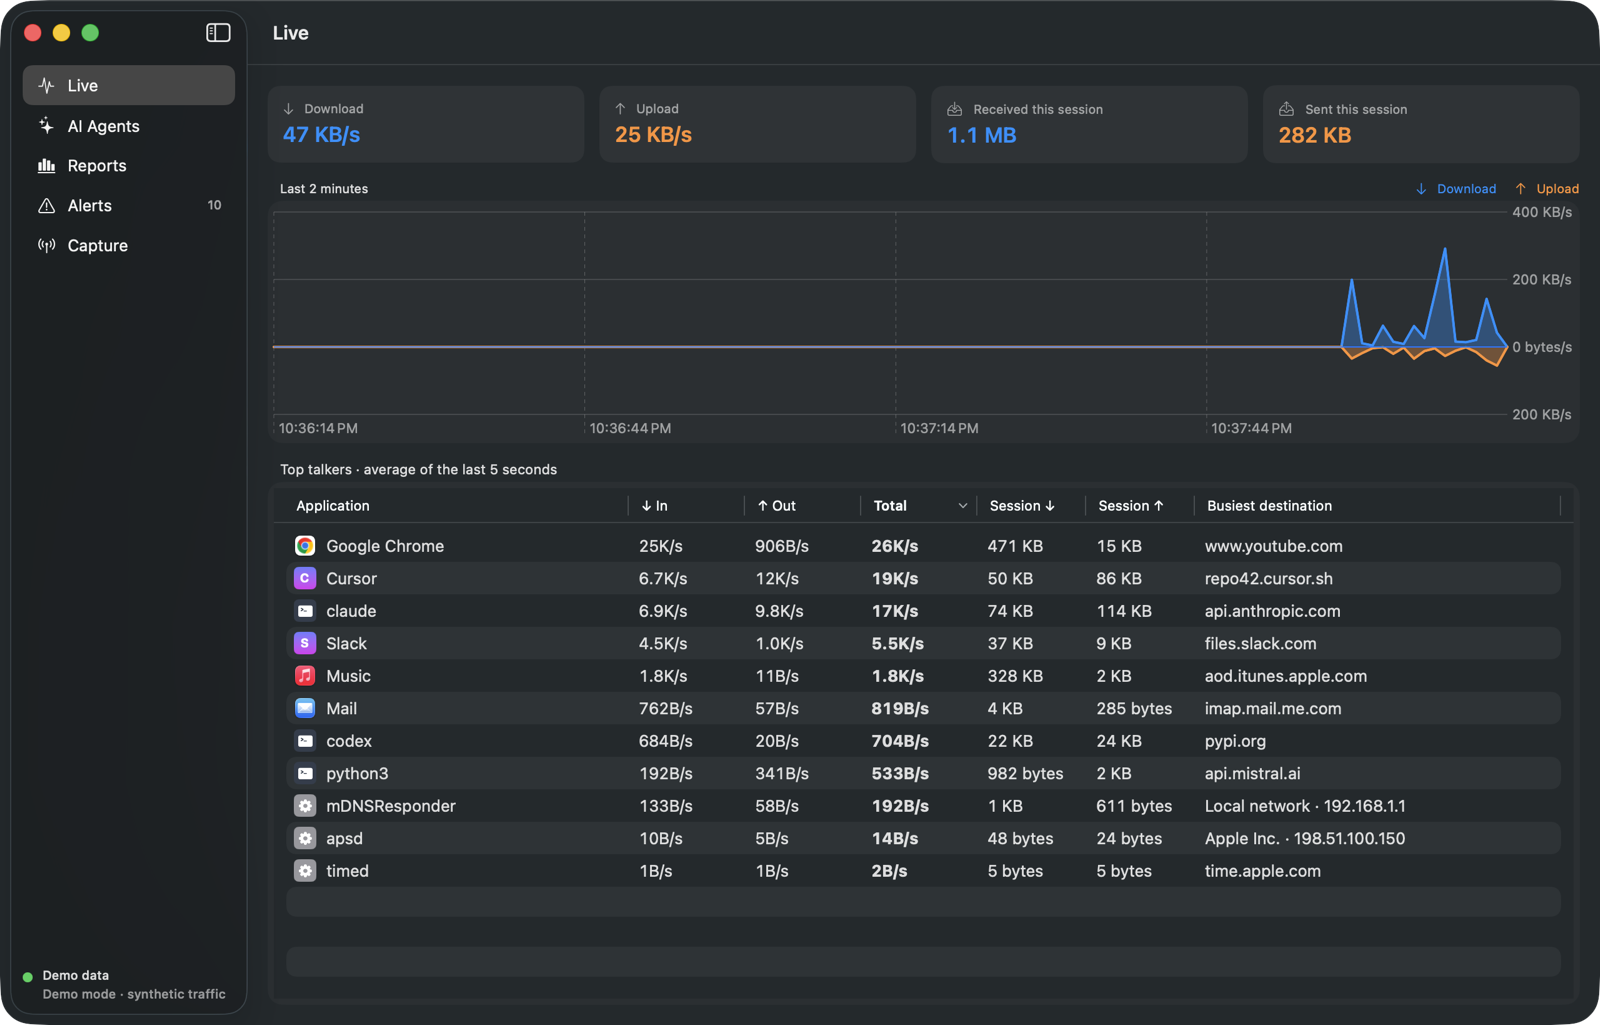
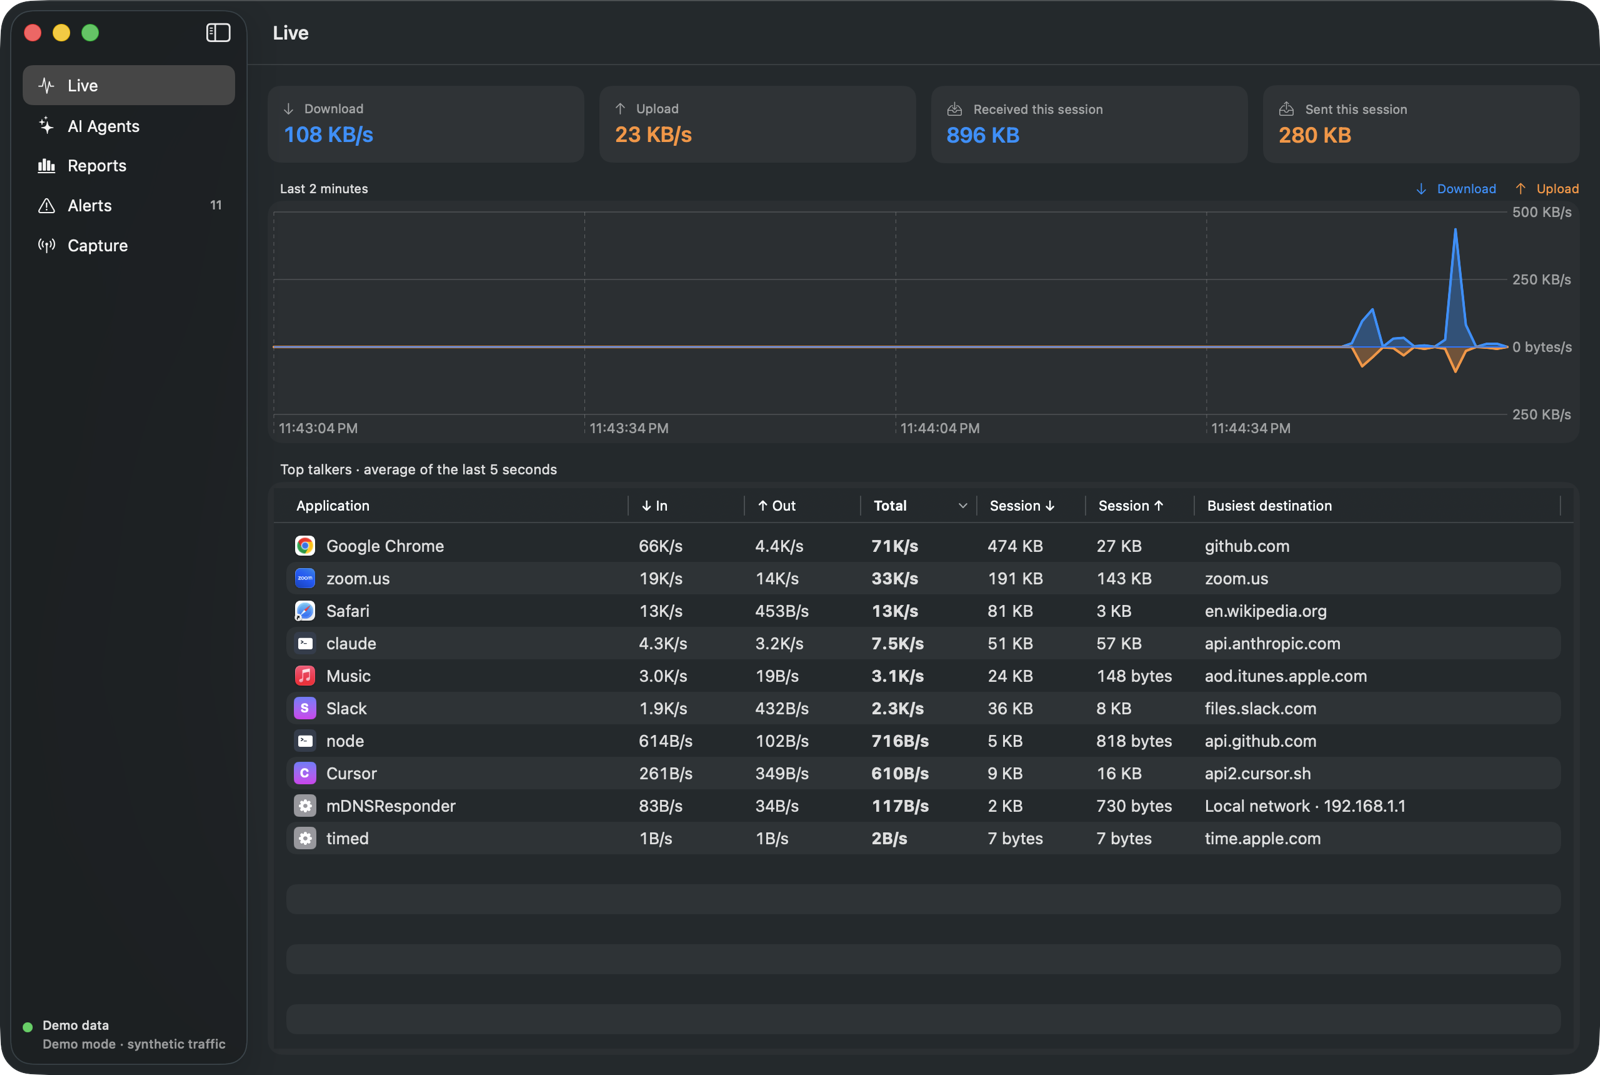
Demo data and screenshots: tools, MCP servers and an allowlist
Demo mode now includes git, curl and a github MCP server working for
Claude Code, a fetch MCP server under Cursor, a Claude Code allowlist
(GitHub + npm) and a violation, and the screenshots are retaken from it.

diff --git a/Flowlight/App/DemoData.swift b/Flowlight/App/DemoData.swift
@@ -34,6 +34,14 @@ enum DemoData {
         var path: String
         var weight: Double      // how busy during work hours
         var flows: [Flow]
+        /// Set for tools and MCP servers an agent started: (agent bundle ID, agent name, MCP server).
+        var parent: (id: String, name: String, mcp: String?)? = nil
+
+        func key(_ flow: Flow) -> FlowKey {
+            FlowKey(pid: Int32(abs(bundleID.hashValue % 30_000) + 200), bundleID: bundleID, appName: name, appPath: path,
+                    remoteIP: flow.ip, domain: flow.host, port: flow.port, transport: flow.transport, appProtocol: flow.proto,
+                    parentAgent: parent?.id, parentAgentName: parent?.name, mcpServer: parent?.mcp)
+        }
     }
 
     static let apps: [App] = [
@@ -71,6 +79,18 @@ enum DemoData {
             Flow(host: "registry.npmjs.org", ip: "198.51.100.81", port: 443, proto: "https", inRate: 300_000, outRate: 10_000),
             Flow(host: "github.com", ip: "198.51.100.11", port: 22, proto: "ssh", inRate: 50_000, outRate: 30_000),
         ]),
+        App(bundleID: "git", name: "git", path: "/usr/bin/git", weight: 0.5, flows: [
+            Flow(host: "github.com", ip: "198.51.100.11", port: 443, proto: "https", inRate: 400_000, outRate: 60_000),
+        ], parent: ("claude", "Claude Code", nil)),
+        App(bundleID: "node", name: "node", path: "/opt/homebrew/bin/node", weight: 0.5, flows: [
+            Flow(host: "api.github.com", ip: "198.51.100.12", port: 443, proto: "https", inRate: 120_000, outRate: 20_000),
+        ], parent: ("claude", "Claude Code", "github")),
+        App(bundleID: "uv", name: "uv", path: "/opt/homebrew/bin/uv", weight: 0.3, flows: [
+            Flow(host: "docs.python.org", ip: "198.51.100.13", port: 443, proto: "https", inRate: 200_000, outRate: 8_000),
+        ], parent: ("com.todesktop.230313mzl4w4u92", "Cursor", "fetch")),
+        App(bundleID: "curl", name: "curl", path: "/usr/bin/curl", weight: 0.05, flows: [
+            Flow(host: "registry.npmjs.org", ip: "198.51.100.81", port: 443, proto: "https", inRate: 30_000, outRate: 2_000),
+        ], parent: ("claude", "Claude Code", nil)),
         App(bundleID: "codex", name: "codex", path: "/opt/homebrew/bin/codex", weight: 0.6, flows: [
             Flow(host: "api.openai.com", ip: "198.51.100.90", port: 443, proto: "https", inRate: 500_000, outRate: 900_000),
             Flow(host: "pypi.org", ip: "198.51.100.91", port: 443, proto: "https", inRate: 200_000, outRate: 6_000),
@@ -106,6 +126,7 @@ enum DemoData {
         (95, "codex", Flow(host: "uploads.paste.example", ip: "203.0.113.20", port: 443, proto: "https", inRate: 0, outRate: 0), 180_000_000),
         (40, "claude", Flow(host: "smtp.relay.example", ip: "203.0.113.25", port: 587, proto: "smtp-submission", inRate: 0, outRate: 0), 2_400_000),
         (22, "python3", Flow(host: "", ip: "203.0.113.45", port: 4444, proto: "tcp", inRate: 0, outRate: 0), 9_000_000),
+        (12, "curl", Flow(host: "paste.example", ip: "203.0.113.60", port: 443, proto: "https", inRate: 0, outRate: 0), 1_200_000),
         (300, "Cursor", Flow(host: "files.share.example", ip: "203.0.113.30", port: 21, proto: "ftp", inRate: 0, outRate: 0), 35_000_000),
     ]
 
@@ -113,10 +134,7 @@ enum DemoData {
         ["198.51.100.150": IPOwner(asn: 714, name: "Apple Inc."), "203.0.113.45": IPOwner(asn: 64_512, name: "Example Hosting")]
     }
 
-    private static func key(_ app: App, _ flow: Flow) -> FlowKey {
-        FlowKey(pid: Int32(abs(app.bundleID.hashValue % 30_000) + 200), bundleID: app.bundleID, appName: app.name, appPath: app.path,
-                remoteIP: flow.ip, domain: flow.host, port: flow.port, transport: flow.transport, appProtocol: flow.proto)
-    }
+    private static func key(_ app: App, _ flow: Flow) -> FlowKey { app.key(flow) }
 
     /// Activity level by local hour: busy 9–19, quiet overnight, lighter on weekends.
     static func activity(at date: Date, calendar: Calendar = .current) -> Double {
@@ -180,12 +198,15 @@ enum DemoData {
         try db.insertAggregates("agg_1d", days.flatMap { ts, keys in keys.map { (ts, $0.key, $0.value) } })
         try db.setRollupWatermarks(minuteNow)
         for (ip, owner) in owners() { try db.saveOwner(ip: ip, owner) }
+        try db.savePolicy(AgentPolicy(agentID: "claude", enabled: true, allowAIProviders: true,
+                                      patterns: ["github.com", "npmjs.org", "githubusercontent.com"]))
         try seedAlerts(db, now: now)
     }
 
     private static func seedAlerts(_ db: TrafficDatabase, now: Date) throws {
         typealias K = AnomalyEngine.Kind
         let items: [(Int, K, String, String, String, Int)] = [
+            (12, .allowlistViolation, "claude", "Claude Code › curl", "Claude Code › curl contacted paste.example:443 (https), which isn't on Claude Code's allowlist — 1.2 MB sent", 3),
             (95, .agentExfiltration, "codex", "Codex", "Codex uploaded 180 MB to non-AI hosts in the last hour: uploads.paste.example (180 MB)", 3),
             (40, .agentSensitiveChannel, "claude", "Claude Code", "Claude Code used SMTP-SUBMISSION (email) to smtp.relay.example:587 — 2.4 MB sent", 3),
             (22, .agentUnnamedHost, "python3", "python3", "python3 connected to Example Hosting 203.0.113.45:4444 (tcp) with no hostname", 2),
@@ -229,9 +250,7 @@ final class DemoTrafficSource: TrafficSource, @unchecked Sendable {
             for flow in app.flows where Double.random(in: 0...1, using: &rng) < 0.5 {
                 let scale = Double.random(in: 0.1...1.6, using: &rng) / 60
                 let burst = Double.random(in: 0...1, using: &rng) < 0.03 ? 12.0 : 1.0
-                let key = FlowKey(pid: Int32(abs(app.bundleID.hashValue % 30_000) + 200), bundleID: app.bundleID, appName: app.name,
-                                  appPath: app.path, remoteIP: flow.ip, domain: flow.host, port: flow.port, transport: flow.transport,
-                                  appProtocol: flow.proto)
+                let key = app.key(flow)
                 records.append(TrafficRecord(key: key, counters: FlowCounters(bytesIn: Int64(flow.inRate * scale * burst),
                                                                              bytesOut: Int64(flow.outRate * scale * burst),
                                                                              flows: Double.random(in: 0...1, using: &rng) < 0.05 ? 1 : 0)))
